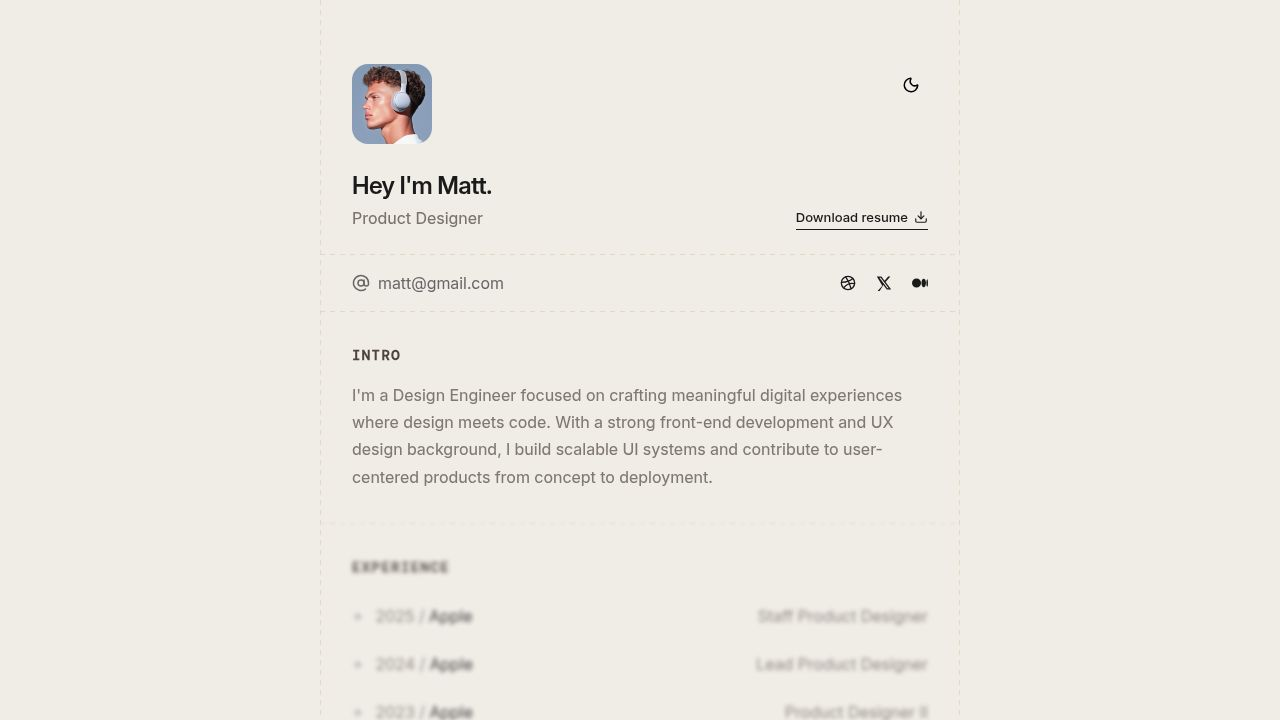
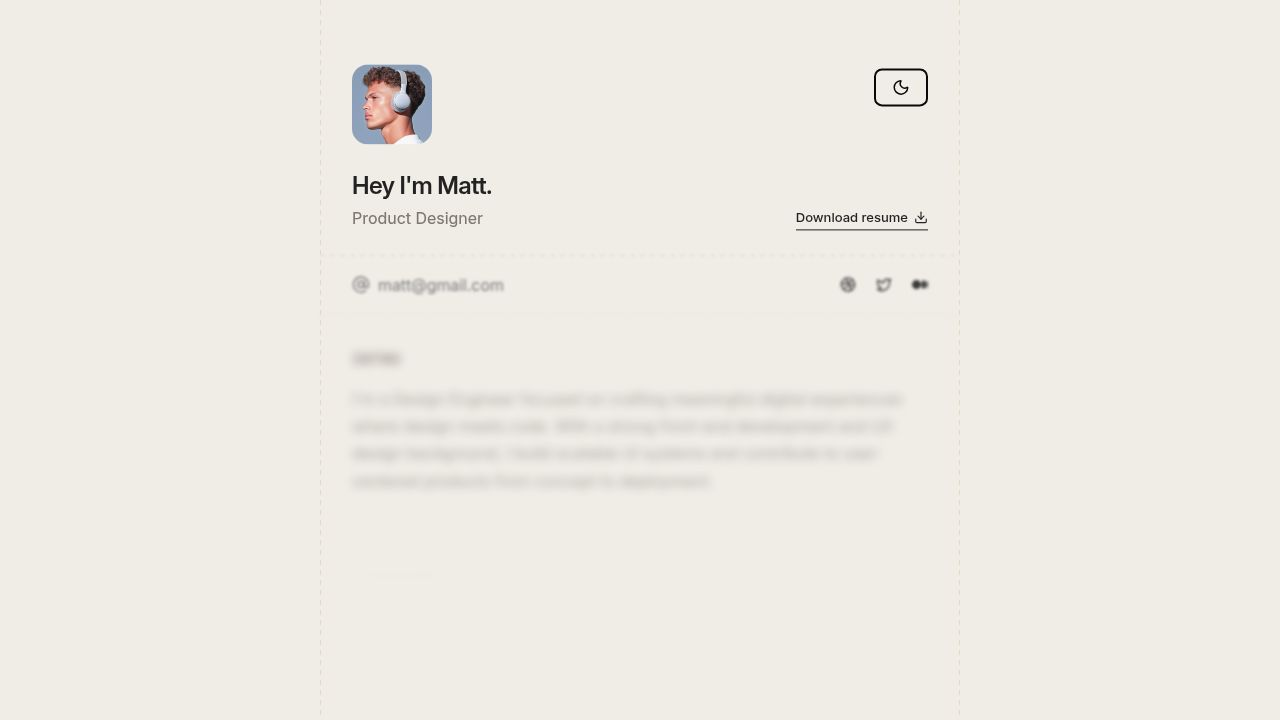
Update theme toggle to outline button with heartbeat sound on click
Add a heartbeat sound effect using the Web Audio API and modify the theme toggler button to an outline style in `animated-theme-toggler.tsx`.

Replit-Commit-Author: Agent
Replit-Commit-Session-Id: cfce2087-ae81-4cfb-8236-aa65c7886ab2
Replit-Commit-Checkpoint-Type: full_checkpoint
Replit-Commit-Event-Id: 526d1f87-8955-4e3d-947e-ad81448cf5a2
Replit-Commit-Screenshot-Url: https://storage.googleapis.com/screenshot-production-us-central1/7c9a4275-12ad-4a82-8e81-6ae57f5fa6e5/cfce2087-ae81-4cfb-8236-aa65c7886ab2/WVa9wQm
Replit-Helium-Checkpoint-Created: true

diff --git a/client/src/components/ui/animated-theme-toggler.tsx b/client/src/components/ui/animated-theme-toggler.tsx
@@ -33,8 +33,45 @@ export const AnimatedThemeToggler = ({ className }: AnimatedThemeTogglerProps) =
     return () => observer.disconnect()
   }, [])
 
+  const playHeartbeat = useCallback(() => {
+    try {
+      const audioContext = new (window.AudioContext || (window as any).webkitAudioContext)()
+      const now = audioContext.currentTime
+
+      // First beat
+      const osc1 = audioContext.createOscillator()
+      const gain1 = audioContext.createGain()
+      osc1.connect(gain1)
+      gain1.connect(audioContext.destination)
+
+      osc1.frequency.setValueAtTime(150, now)
+      gain1.gain.setValueAtTime(0.3, now)
+      gain1.gain.exponentialRampToValueAtTime(0.01, now + 0.1)
+
+      osc1.start(now)
+      osc1.stop(now + 0.1)
+
+      // Second beat (shortly after)
+      const osc2 = audioContext.createOscillator()
+      const gain2 = audioContext.createGain()
+      osc2.connect(gain2)
+      gain2.connect(audioContext.destination)
+
+      osc2.frequency.setValueAtTime(180, now + 0.12)
+      gain2.gain.setValueAtTime(0.2, now + 0.12)
+      gain2.gain.exponentialRampToValueAtTime(0.01, now + 0.22)
+
+      osc2.start(now + 0.12)
+      osc2.stop(now + 0.22)
+    } catch (e) {
+      // Silently fail if audio context is not available
+    }
+  }, [])
+
   const onToggle = useCallback(async () => {
     if (!buttonRef.current) return
+
+    playHeartbeat()
 
     await document.startViewTransition(() => {
       flushSync(() => {
@@ -66,7 +103,7 @@ export const AnimatedThemeToggler = ({ className }: AnimatedThemeTogglerProps) =
         pseudoElement: "::view-transition-new(root)",
       }
     )
-  }, [darkMode])
+  }, [darkMode, playHeartbeat])
 
   return (
     <button
@@ -74,7 +111,8 @@ export const AnimatedThemeToggler = ({ className }: AnimatedThemeTogglerProps) =
       onClick={onToggle}
       aria-label="Switch theme"
       className={cn(
-        "flex items-center justify-center p-2 rounded-full outline-none focus:outline-none active:outline-none focus:ring-0 cursor-pointer hover:opacity-70 transition-opacity",
+        "flex items-center justify-center px-4 py-2 rounded-lg border-2 border-current outline-none focus:outline-none active:outline-none focus:ring-2 focus:ring-offset-2 cursor-pointer hover:opacity-80 transition-all",
+        darkMode ? "border-white text-white focus:ring-white" : "border-black text-black focus:ring-black",
         className
       )}
       type="button"
